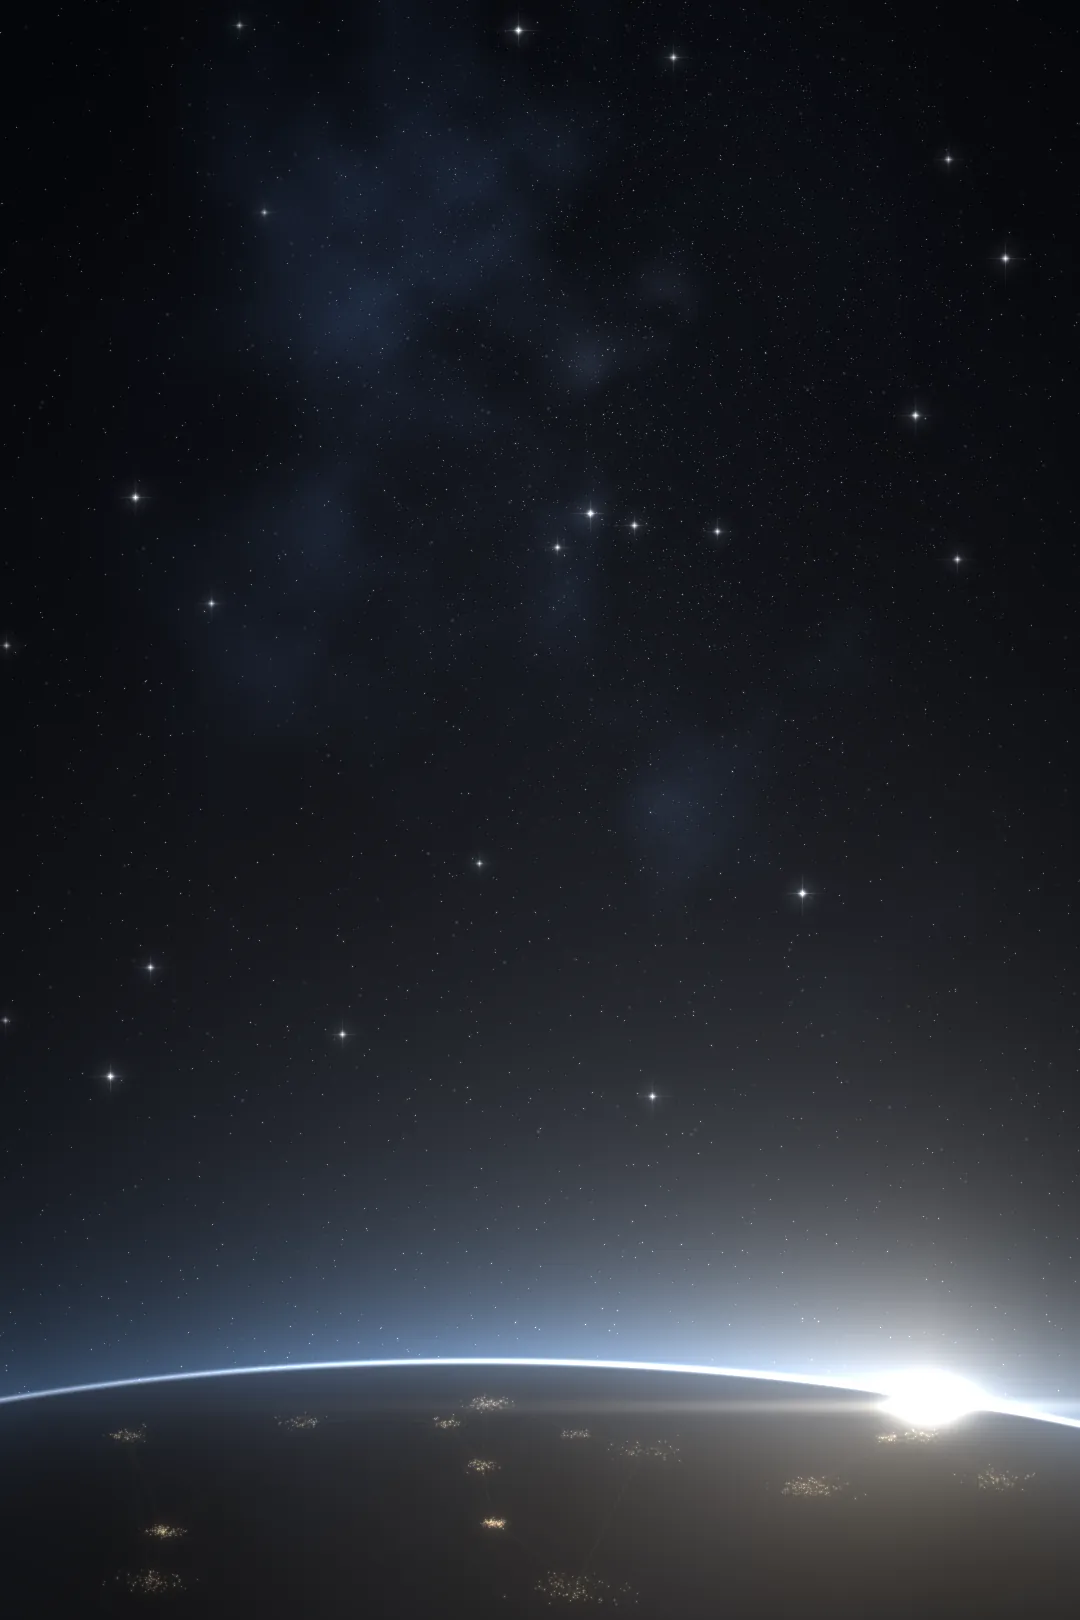
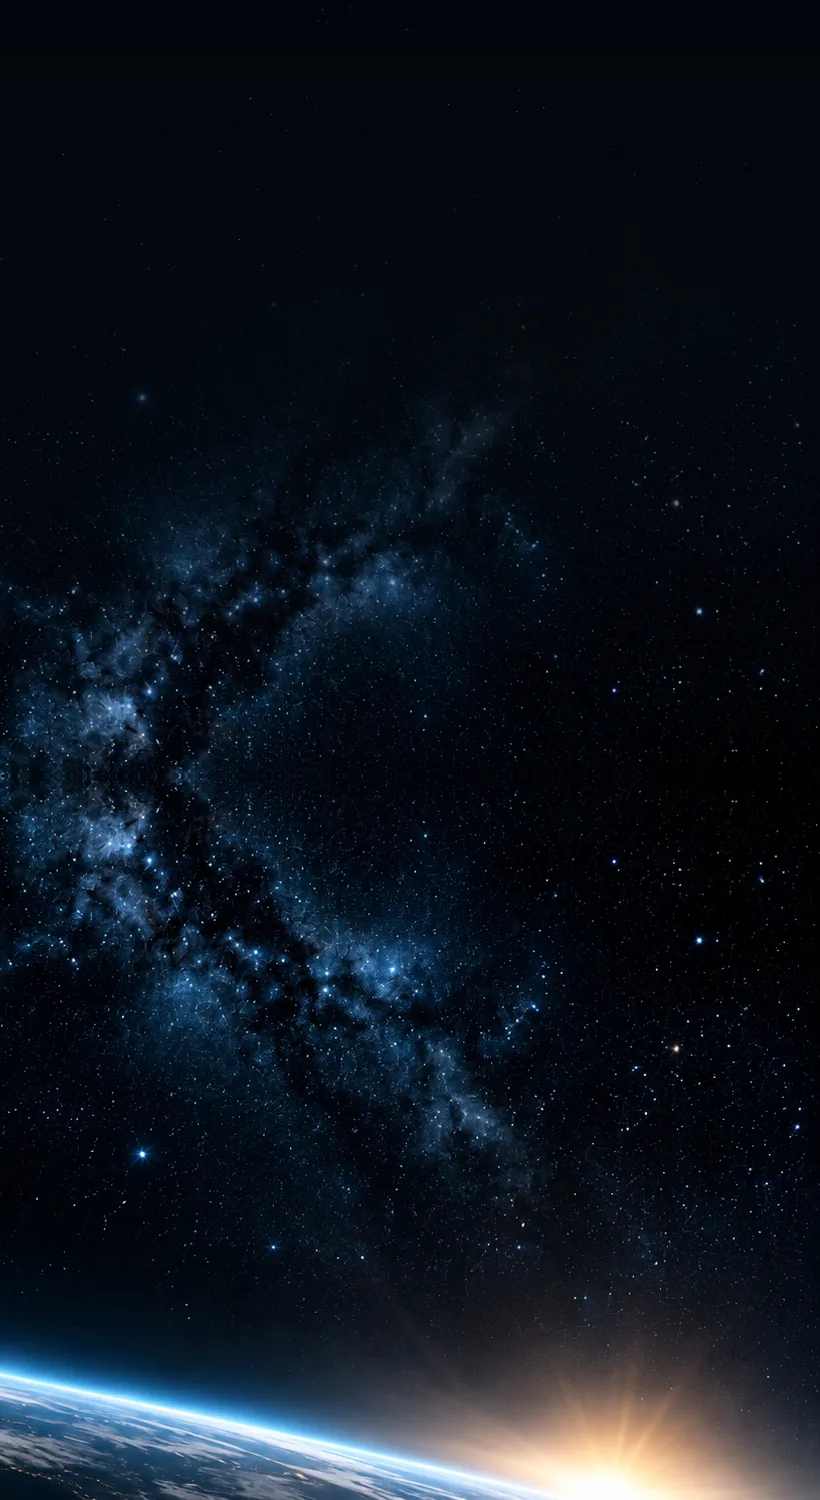
Use the supplied Earth-from-orbit photo as the hero backdrop
Replaces the procedural render with the provided image, extended upward
with a faded band of its own sky for the tall home hero, plus a portrait
crop for phones and a matching social share image.

Claude-Session: https://claude.ai/code/session_01WPh7QDGisjNvZRAWFTPCn6

diff --git a/assets/css/style.css b/assets/css/style.css
@@ -323,7 +323,7 @@ code { font-family: var(--font-mono); font-size: 0.92em; color: var(--silver); }
   object-fit: cover; object-position: center bottom;
   will-change: transform;
 }
-.hero--page .hero__space { object-position: center 62%; }
+.hero--page .hero__space { object-position: center 72%; }
 .hero__shade {
   position: absolute; inset: 0;
   background:

diff --git a/README.md b/README.md
@@ -20,17 +20,11 @@ assets/css/style.css  All styling (design tokens at the top of the file)
 assets/js/main.js     Mobile nav, scroll reveal, star field, contact form
 assets/img/           Logo lockups, mark, favicons, social share image, hero backdrops
 assets/fonts/         Self-hosted web fonts
-tools/render_hero_background.py   Regenerates the Earth-from-orbit hero backdrops
 robots.txt, sitemap.xml
 .github/workflows/pages.yml   GitHub Pages deployment
 ```
 
-The hero backdrop (night-side Earth limb, city lights, star field, nebula, sun glare) is rendered procedurally rather than taken from a stock photo, so it is royalty-free and can be re-rendered with different parameters:
-
-```
-pip install numpy pillow
-python3 tools/render_hero_background.py
-```
+The hero backdrop is the supplied Earth-from-orbit image, saved as `assets/img/hero-space.webp` (extended upward with a faded band of its own sky so the full panorama fits the tall home hero) and `assets/img/hero-space-portrait.webp` (a crop for phones). Replace both files to change the backdrop; keep the same names and the pages need no edits.
 
 Motion on the site (twinkling stars, the orbit track, the ticker, scroll reveals, the typewriter block and hover effects) is disabled automatically for visitors who set "reduce motion" in their operating system.
 
